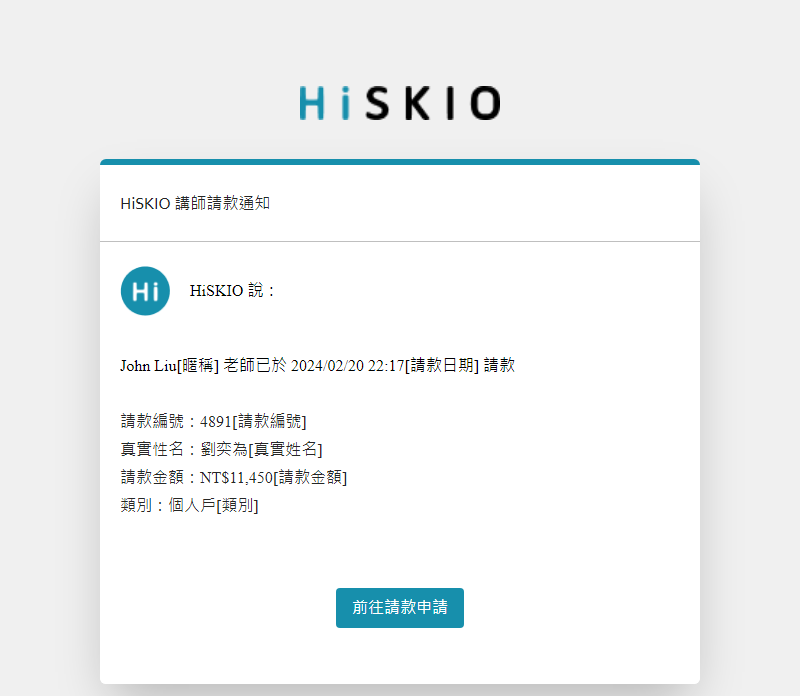
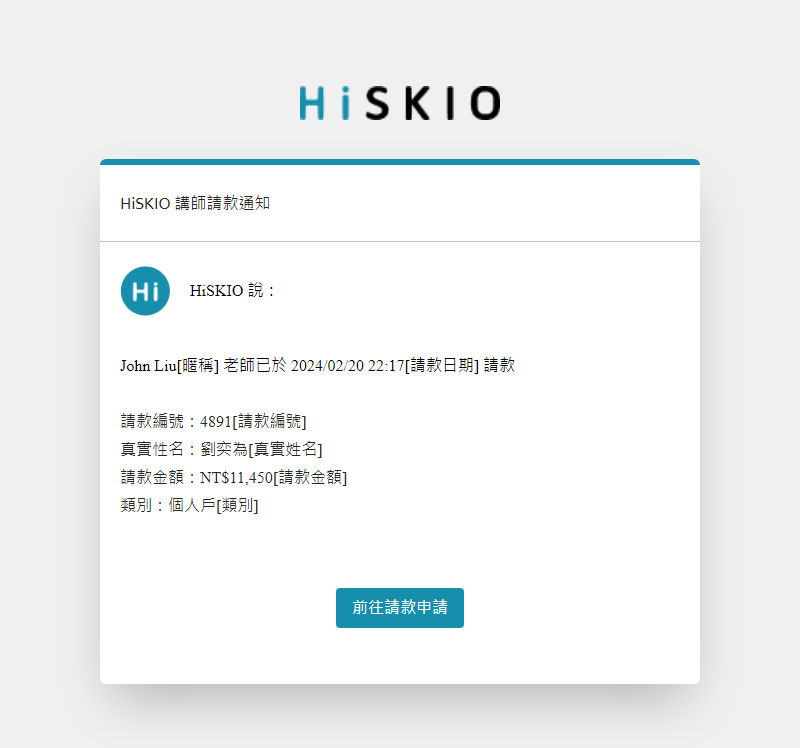
feat: HIS-166: 調整講師請款通知信件的下方內推距離

diff --git a/output/emails/M07管理後台-講師請款通知/index-en.html b/output/emails/M07管理後台-講師請款通知/index-en.html
@@ -110,13 +110,13 @@
             <table align="center" border="0" cellpadding="0" cellspacing="0" role="presentation" style="width:100%;">
                 <tbody>
                     <tr>
-                        <td style="direction:ltr;font-size:0px;padding:12px;text-align:center;">
+                        <td style="direction:ltr;font-size:0px;padding:20px 0;padding-bottom:64px;padding-left:12px;padding-right:12px;padding-top:0;text-align:center;">
                             <!--[if mso | IE]><table role="presentation" border="0" cellpadding="0" cellspacing="0"><tr><td class="" width="624px" ><table align="center" border="0" cellpadding="0" cellspacing="0" class="" role="presentation" style="width:600px;" width="600" bgcolor="#f0f0f0" ><tr><td style="line-height:0px;font-size:0px;mso-line-height-rule:exactly;"><![endif]-->
                             <div style="background:#f0f0f0;background-color:#f0f0f0;margin:0px auto;max-width:600px;">
                                 <table align="center" border="0" cellpadding="0" cellspacing="0" role="presentation" style="background:#f0f0f0;background-color:#f0f0f0;width:100%;">
                                     <tbody>
                                         <tr>
-                                            <td style="direction:ltr;font-size:0px;padding:20px 0;padding-bottom:29px;padding-top:64px;text-align:center;">
+                                            <td style="direction:ltr;font-size:0px;padding:20px 0;padding-bottom:29px;padding-top:76px;text-align:center;">
                                                 <!--[if mso | IE]><table role="presentation" border="0" cellpadding="0" cellspacing="0"><tr><td class="" style="vertical-align:top;width:600px;" ><![endif]-->
                                                 <div class="mj-column-per-100 mj-outlook-group-fix" style="font-size:0px;text-align:left;direction:ltr;display:inline-block;vertical-align:top;width:100%;">
                                                     <table border="0" cellpadding="0" cellspacing="0" role="presentation" style="vertical-align:top;" width="100%">

diff --git a/output/emails/M07管理後台-講師請款通知/index-zh-CN.html b/output/emails/M07管理後台-講師請款通知/index-zh-CN.html
@@ -110,13 +110,13 @@
             <table align="center" border="0" cellpadding="0" cellspacing="0" role="presentation" style="width:100%;">
                 <tbody>
                     <tr>
-                        <td style="direction:ltr;font-size:0px;padding:12px;text-align:center;">
+                        <td style="direction:ltr;font-size:0px;padding:20px 0;padding-bottom:64px;padding-left:12px;padding-right:12px;padding-top:0;text-align:center;">
                             <!--[if mso | IE]><table role="presentation" border="0" cellpadding="0" cellspacing="0"><tr><td class="" width="624px" ><table align="center" border="0" cellpadding="0" cellspacing="0" class="" role="presentation" style="width:600px;" width="600" bgcolor="#f0f0f0" ><tr><td style="line-height:0px;font-size:0px;mso-line-height-rule:exactly;"><![endif]-->
                             <div style="background:#f0f0f0;background-color:#f0f0f0;margin:0px auto;max-width:600px;">
                                 <table align="center" border="0" cellpadding="0" cellspacing="0" role="presentation" style="background:#f0f0f0;background-color:#f0f0f0;width:100%;">
                                     <tbody>
                                         <tr>
-                                            <td style="direction:ltr;font-size:0px;padding:20px 0;padding-bottom:29px;padding-top:64px;text-align:center;">
+                                            <td style="direction:ltr;font-size:0px;padding:20px 0;padding-bottom:29px;padding-top:76px;text-align:center;">
                                                 <!--[if mso | IE]><table role="presentation" border="0" cellpadding="0" cellspacing="0"><tr><td class="" style="vertical-align:top;width:600px;" ><![endif]-->
                                                 <div class="mj-column-per-100 mj-outlook-group-fix" style="font-size:0px;text-align:left;direction:ltr;display:inline-block;vertical-align:top;width:100%;">
                                                     <table border="0" cellpadding="0" cellspacing="0" role="presentation" style="vertical-align:top;" width="100%">

diff --git a/output/emails/M07管理後台-講師請款通知/index-zh-TW.html b/output/emails/M07管理後台-講師請款通知/index-zh-TW.html
@@ -110,13 +110,13 @@
             <table align="center" border="0" cellpadding="0" cellspacing="0" role="presentation" style="width:100%;">
                 <tbody>
                     <tr>
-                        <td style="direction:ltr;font-size:0px;padding:12px;text-align:center;">
+                        <td style="direction:ltr;font-size:0px;padding:20px 0;padding-bottom:64px;padding-left:12px;padding-right:12px;padding-top:0;text-align:center;">
                             <!--[if mso | IE]><table role="presentation" border="0" cellpadding="0" cellspacing="0"><tr><td class="" width="624px" ><table align="center" border="0" cellpadding="0" cellspacing="0" class="" role="presentation" style="width:600px;" width="600" bgcolor="#f0f0f0" ><tr><td style="line-height:0px;font-size:0px;mso-line-height-rule:exactly;"><![endif]-->
                             <div style="background:#f0f0f0;background-color:#f0f0f0;margin:0px auto;max-width:600px;">
                                 <table align="center" border="0" cellpadding="0" cellspacing="0" role="presentation" style="background:#f0f0f0;background-color:#f0f0f0;width:100%;">
                                     <tbody>
                                         <tr>
-                                            <td style="direction:ltr;font-size:0px;padding:20px 0;padding-bottom:29px;padding-top:64px;text-align:center;">
+                                            <td style="direction:ltr;font-size:0px;padding:20px 0;padding-bottom:29px;padding-top:76px;text-align:center;">
                                                 <!--[if mso | IE]><table role="presentation" border="0" cellpadding="0" cellspacing="0"><tr><td class="" style="vertical-align:top;width:600px;" ><![endif]-->
                                                 <div class="mj-column-per-100 mj-outlook-group-fix" style="font-size:0px;text-align:left;direction:ltr;display:inline-block;vertical-align:top;width:100%;">
                                                     <table border="0" cellpadding="0" cellspacing="0" role="presentation" style="vertical-align:top;" width="100%">
